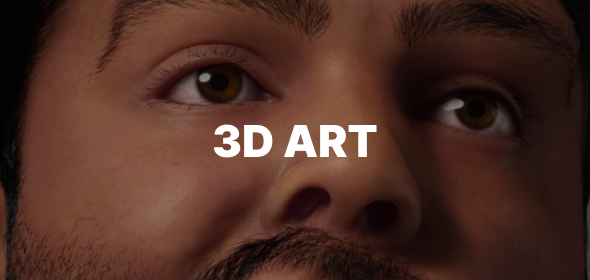
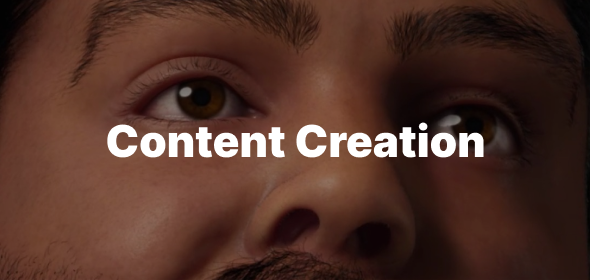
updated lab

diff --git a/index.html b/index.html
@@ -339,9 +339,9 @@
 		<div class="rounded bg-dark shadow-light padding-30">
 		<div class="text-center mt-4">
 			
-			<h3>Case Studies</h3>
+			<h3>Career Projects</h3>
 			<p>
-				Here is a non-exhaustive list of projects I had the opportunity to lead or contribute to:
+				Here is a non-exhaustive list of projects I had the opportunity to lead or contribute to as a Product Designer:
 			</p>
 		</div>
 		<!-- portolio wrapper -->
@@ -848,8 +848,8 @@
 		
 			<!-- buttons -->
 			<div class="text-center mt-4">
-				<h3>The Lab <i class="icon-chemistry"></i></h3>
-				I'm constantly prototyping and working on new ideas, here are some of my side projects:
+				<h3>Freelance Work</h3>
+				I'm constantly prototyping and working on new ideas, here are some of my public projects:
 				<br/>
 				<br/>
 			<!-- portolio wrapper -->
@@ -859,7 +859,7 @@
 					<a href="#small-dialog11" class="work-content">
 						<div class="portfolio-item rounded shadow-dark">
 							<div class="details">
-								<span class="term">3D</span>
+								<span class="term">Art Direction</span>
 								<h4 class="title">Explore Art</h4>
 							</div>
 							<div class="thumb">
